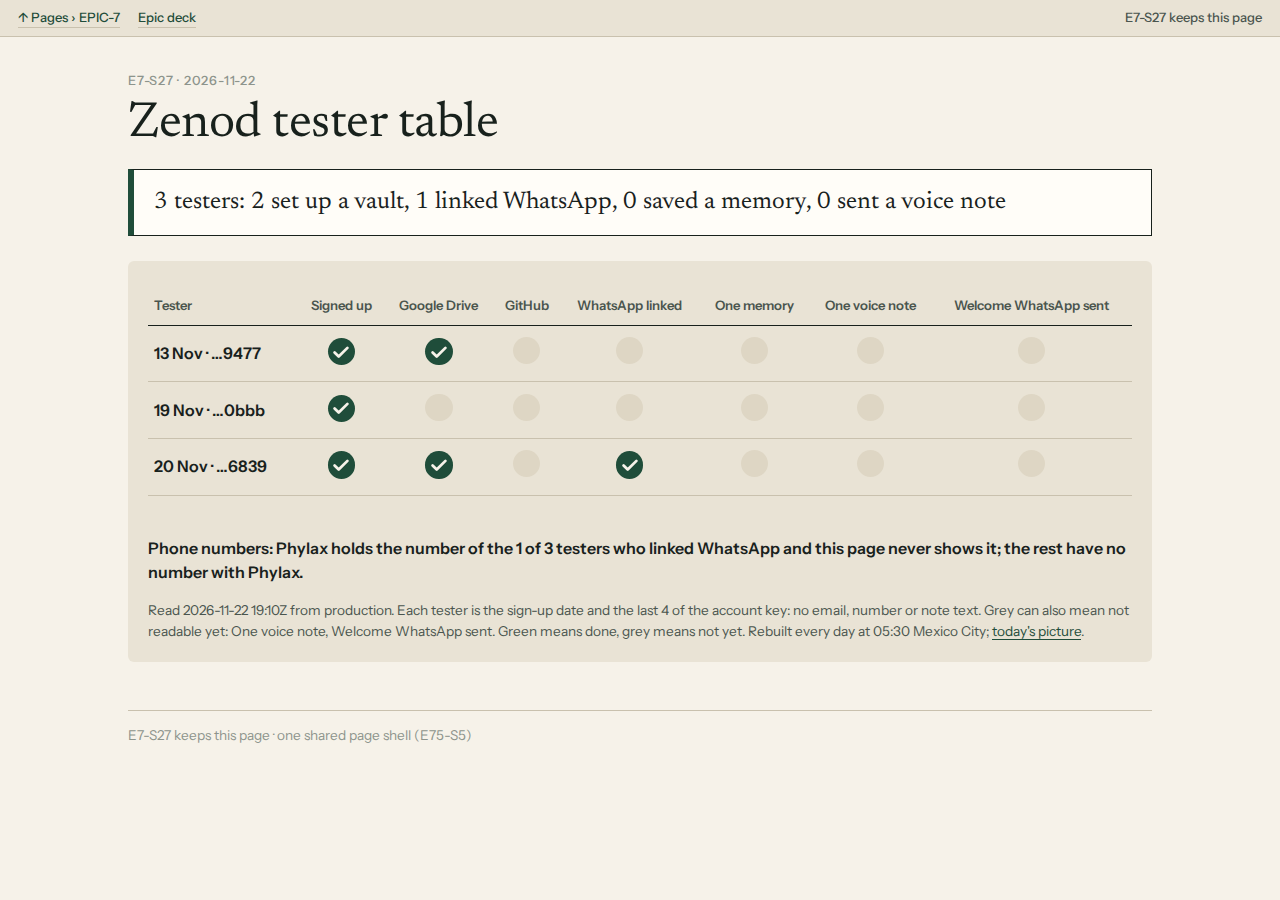
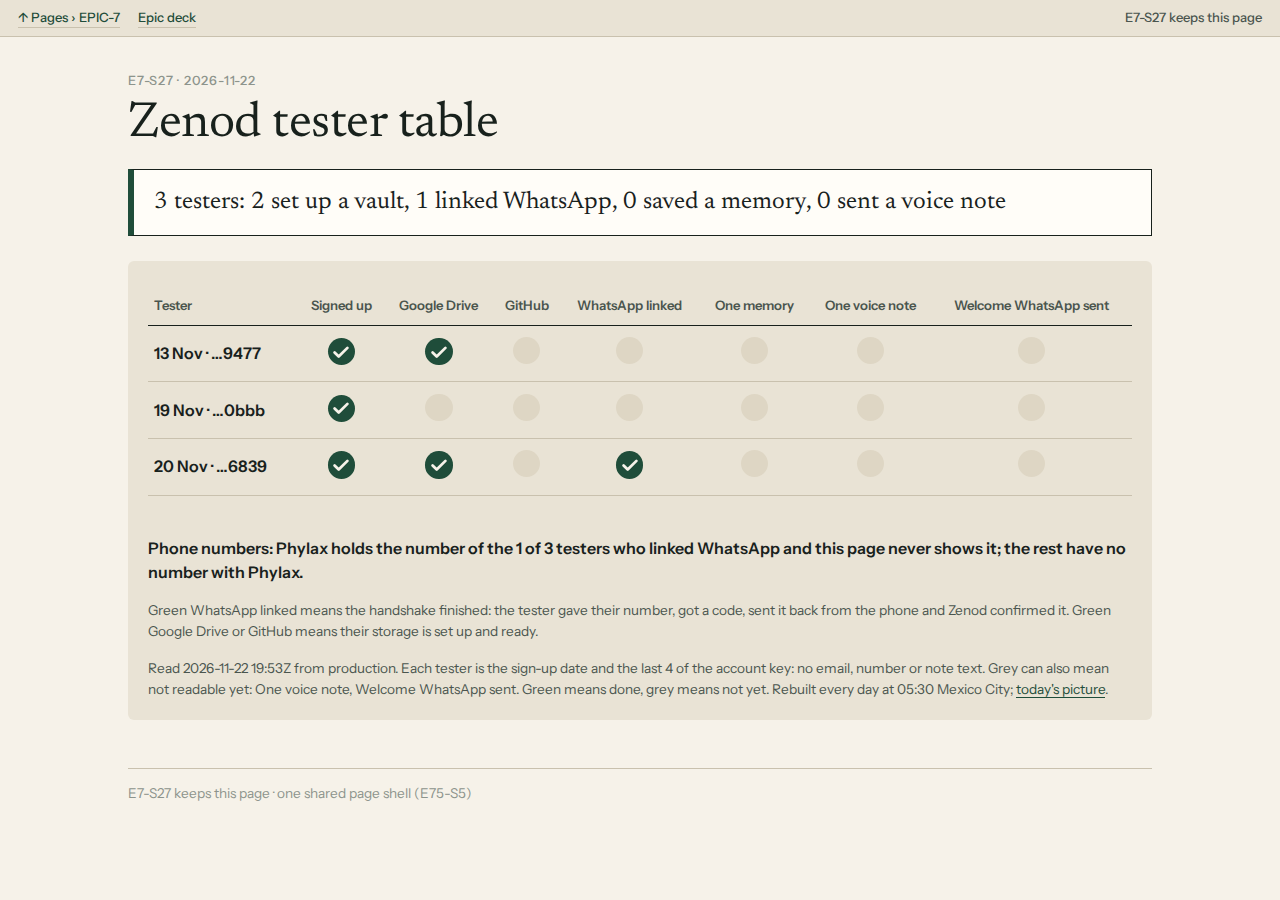
E7-S27: card rewritten to the card rules; handshake key line (#1741) in the evidence
Run: run_29e80097-6e28-4c90-a368-3cf99c95a559

Changed region(s): [[0.125, 0.6533, 0.875, 0.7778], [0.0938, 0.8711, 0.375, 0.9022], [0.0938, 0.8089, 0.375, 0.84]]

diff --git a/docs/cards/E7-S27.md b/docs/cards/E7-S27.md
@@ -1,19 +1,17 @@
 ---
 row: E7-S27
 spine: EPIC-7-REAL-USER-TEST.md
-title: A daily table shows each tester's setup as green or grey dots.
+title: A daily green or grey table of each tester's setup was made.
 goal: Jordi sees every tester's setup at a glance, daily.
 name: tester table
 source: "Jordi on 22 Nov: \"each tester having a color. Is it green or not green?\" His voice note vn_40b9ff8f."
 delivered:
-  - ✓ One row per tester with seven steps, each green or grey.
-  - ✓ A one line answer on whether we hold their phone numbers.
-  - ✓ A page and a picture rebuilt every morning.
+  - ✓ One row per tester, seven steps, green or grey, rebuilt every morning.
+  - ✓ WhatsApp shows green only once the code handshake finished.
   - ✗ Voice note and welcome dots stay grey until the next release.
-  - ✗ It is not in his morning briefing yet.
 evidence: "http://vps3.taild81fbb.ts.net:9008/"
 screenshot: ../evidence/e7-s27/table-1280.png
-after: The team asks the briefing owner again to place the picture in his morning briefing.
+after: The team asks again to put the picture in your briefing.
 decision: "Is this the table you wanted? The team recommends Yes."
 options:
   - "Yes: keep it as it is"

diff --git a/docs/evidence/e7-s27-2026-11-22.md b/docs/evidence/e7-s27-2026-11-22.md
@@ -21,6 +21,7 @@ Row: E7-S27 in [EPIC-7](../EPIC-7-REAL-USER-TEST.md). Run: run_29e80097-6e28-4c9
 | "welcome WhatsApp sent, maybe that's another column" | last column: the link welcome or the first-note message reached the tester | ✓ |
 | "a daily briefing" | PNG rebuilt daily at 05:30 Mexico City; desk note asks agent_team to place it in the 06:00 briefing | ✗ not placed yet |
 | "did they give the phone number? Can we even see it?" | one line on the page: Phylax holds the number of each linked tester (1 of 3), the page never shows one | ✓ |
+| "when the guys put a phone number ... we send a code ... are we monitoring ... whether this handshake was successfully filled in" | the WhatsApp linked cell is green only at the verified state (number given, code sent back from the phone, confirmed); a key line under the table says so, and that green Drive or GitHub means storage ready ([PR #1741](https://github.com/zenod-ai/zenod/pull/1741)) | ✓ |
 
 ## What turns grey for now
 
